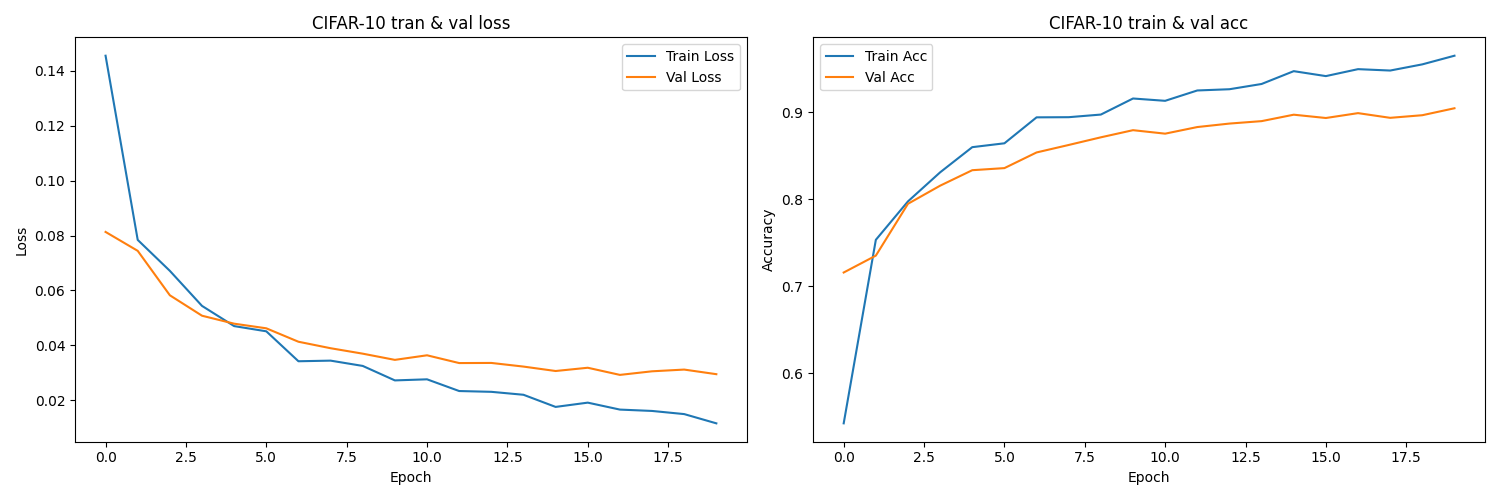
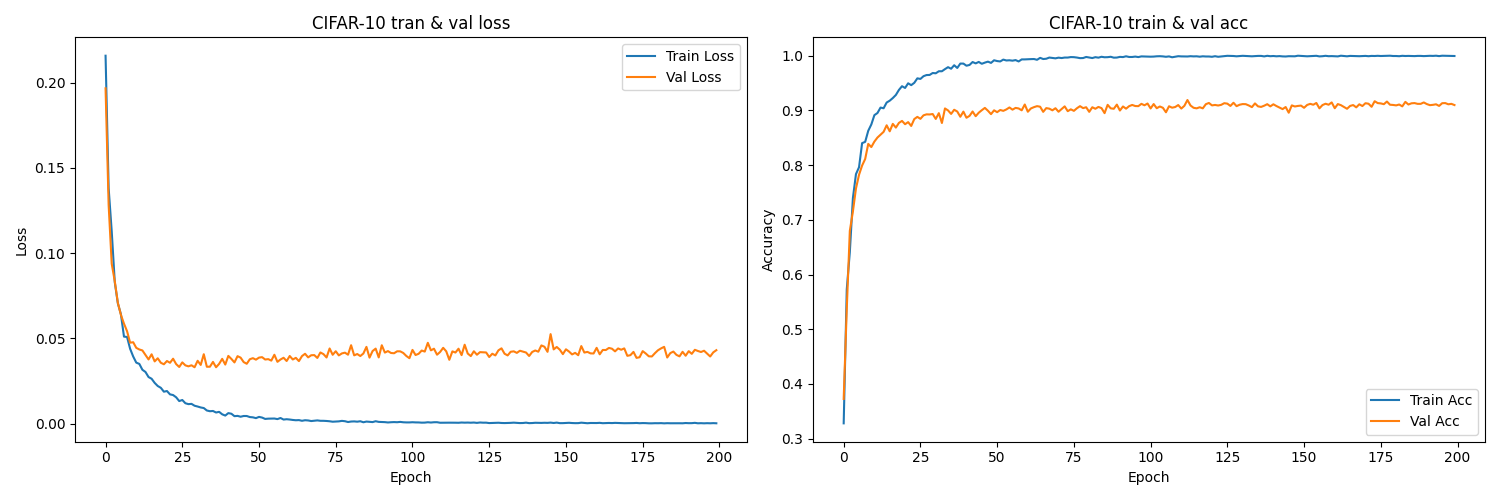
update

diff --git a/transformers/train_res_cifar10.py b/transformers/train_res_cifar10.py
@@ -233,13 +233,13 @@ def plot_metrics(train_metrics, val_metrics):
     plt.show()
 
 # 主函数
-def main():
+def main(batch_size,num_epochs,lr):
     device = setup_env()
     
     # 加载CIFAR-10数据
     print("加载CIFAR-10数据集...")
     train_loader, val_loader, test_loader, num_classes = get_cifar10_loaders(
-        batch_size=64, val_ratio=0.1
+        batch_size=512, val_ratio=0.1
     )
     print(f"训练集大小: {len(train_loader.dataset)}, 验证集大小: {len(val_loader.dataset)}")
     
@@ -250,7 +250,7 @@ def main():
     # 定义损失函数与优化器
     criterion = nn.CrossEntropyLoss()
     optimizer = optim.SGD(
-        model.parameters(), lr=0.01, momentum=0.9, weight_decay=5e-4
+        model.parameters(), lr=lr, momentum=0.9, weight_decay=5e-4
     )
     scheduler = CosineAnnealingLR(optimizer, T_max=20, eta_min=1e-4)
     model, optimizer, train_loader, scheduler = accelerator.prepare(
@@ -260,7 +260,7 @@ def main():
     print("开始训练...")
     model, train_metrics, val_metrics = train_model(
         model, train_loader, val_loader, criterion, optimizer, scheduler,
-        num_epochs=20, device=device, save_path='cifar10_model.pth'
+        num_epochs=num_epochs, device=device, save_path='cifar10_model.pth'
     )
     
     # 评估模型
@@ -272,4 +272,4 @@ def main():
     plot_metrics(train_metrics, val_metrics)
 
 if __name__ == "__main__":
-    main()
+    main(batch_size=128,num_epochs=200,lr=0.05)
